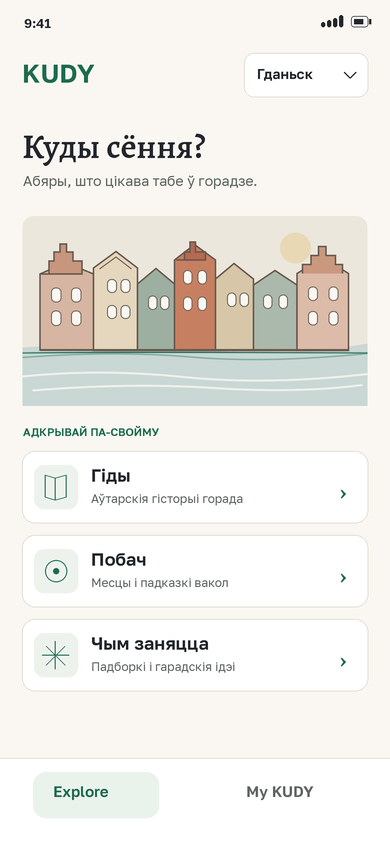
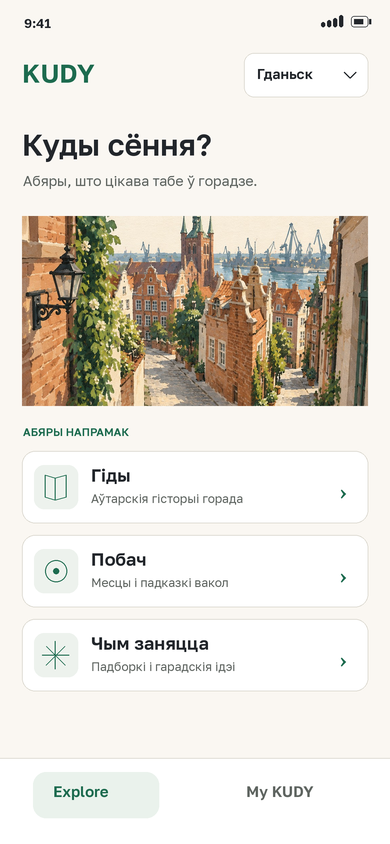
docs(design): center app entry on KUDY and city discovery

Changed region(s): [[0.0308, 0.2464, 0.9538, 0.5237], [0.0615, 0.154, 0.5538, 0.2156]]

diff --git a/docs/design/brand/outputs/app-entry-2026-10-19/render.py b/docs/design/brand/outputs/app-entry-2026-10-19/render.py
@@ -1,15 +1,13 @@
-"""Render a proposed native launch frame and pre-route Explore frame at 390 × 844."""
+"""Render branded in-app loading concepts and pre-route Explore at 390 × 844."""
 
-from io import BytesIO
 from pathlib import Path
 
-import cairosvg
-from PIL import Image, ImageDraw, ImageFont, ImageOps
+from PIL import Image, ImageDraw, ImageFont
 
 HERE = Path(__file__).resolve().parent
 BRAND = HERE.parents[1]
 FONTS = BRAND / "outputs" / "G25.01" / "fonts"
-FIGURINE = BRAND / "references" / "a1.png"
+CITY_ART = BRAND / "outputs" / "mobile-welcome-2026-10-19" / "art" / "07-found-object.jpg"
 SCALE = 3
 PAPER = "#FAF7F2"
 GREEN = "#1D6B4F"
@@ -30,23 +28,56 @@ def text(draw, xy, value, *, size, color=INK, face="GolosText_400Regular.ttf"):
     draw.text(box(xy), value, fill=color, font=font(face, size))
 
 
-def svg_image(path, width, height):
-    payload = cairosvg.svg2png(url=str(path), output_width=width * SCALE, output_height=height * SCALE)
-    return Image.open(BytesIO(payload)).convert("RGBA")
+def city_art(width, height):
+    art = Image.open(CITY_ART).convert("RGB").crop((0, 80, 1024, 644))
+    return art.resize((width * SCALE, height * SCALE), Image.Resampling.LANCZOS)
 
 
 def save(image, name):
     image.resize((390, 844), Image.Resampling.LANCZOS).save(HERE / name, optimize=True)
 
 
-def launch():
+def launch_atlas():
+    image = Image.new("RGB", (390 * SCALE, 844 * SCALE), PAPER)
+    draw = ImageDraw.Draw(image)
+    draw.line(box((37, 173, 37, 222)), fill=GREEN, width=8)
+    text(draw, (57, 164), "KUDY", size=61, color=GREEN, face="GolosText_600SemiBold.ttf")
+    draw.line(box((37, 255, 353, 255)), fill="#9CB4A6", width=3)
+
+    draw.rounded_rectangle(box((23, 321, 367, 622)), radius=17 * SCALE, fill="#E7E2D7")
+    draw.rounded_rectangle(box((31, 312, 359, 611)), radius=14 * SCALE, fill="#FFFCF7", outline="#C4BDB0", width=2)
+    art = city_art(302, 172)
+    image.paste(art, box((44, 331)))
+    draw = ImageDraw.Draw(image)
+    draw.line(box((44, 525, 195, 542, 346, 525)), fill="#8DA99C", width=4)
+    draw.line(box((195, 542, 195, 591)), fill="#C4BDB0", width=2)
+    draw.line(box((60, 555, 173, 564)), fill="#B7C9BE", width=3)
+    draw.line(box((217, 564, 330, 555)), fill="#B7C9BE", width=3)
+    draw.line(box((59, 580, 171, 587)), fill="#D3DDD5", width=3)
+    draw.line(box((219, 587, 331, 580)), fill="#D3DDD5", width=3)
+    save(image, "01-atlas-opening.png")
+    return image
+
+
+def launch_threshold():
     image = Image.new("RGB", (390 * SCALE, 844 * SCALE), GREEN)
-    source = Image.open(FIGURINE).convert("RGBA")
-    silhouette = Image.new("RGBA", source.size, PAPER)
-    silhouette.putalpha(source.getchannel("A"))
-    mark = ImageOps.contain(silhouette, (184 * SCALE, 184 * SCALE), Image.Resampling.LANCZOS)
-    image.paste(mark, ((image.width - mark.width) // 2, (image.height - mark.height) // 2), mark)
-    save(image, "01-loading.png")
+    draw = ImageDraw.Draw(image)
+    text(draw, (54, 143), "KUDY", size=61, color=PAPER, face="GolosText_600SemiBold.ttf")
+    draw.line(box((55, 225, 335, 225)), fill="#B8D0C1", width=3)
+    draw.ellipse(box((46, 305, 344, 603)), fill="#143F31")
+    draw.rectangle(box((46, 454, 344, 672)), fill="#143F31")
+    draw.ellipse(box((58, 317, 332, 591)), fill=PAPER)
+    draw.rectangle(box((58, 454, 332, 660)), fill=PAPER)
+    art = Image.open(CITY_ART).convert("RGB").crop((279, 0, 745, 564))
+    art = art.resize((274 * SCALE, 343 * SCALE), Image.Resampling.LANCZOS)
+    mask = Image.new("L", image.size, 0)
+    mask_draw = ImageDraw.Draw(mask)
+    mask_draw.ellipse(box((58, 317, 332, 591)), fill=255)
+    mask_draw.rectangle(box((58, 454, 332, 660)), fill=255)
+    image.paste(art, box((58, 317)), mask.crop(box((58, 317, 332, 660))))
+    draw = ImageDraw.Draw(image)
+    draw.line(box((58, 660, 332, 660)), fill="#B8D0C1", width=4)
+    save(image, "01-city-threshold.png")
     return image
 
 
@@ -82,13 +113,13 @@ def explore():
     draw.rounded_rectangle(box((244, 53, 368, 97)), radius=10 * SCALE, fill="#FFFFFF", outline=LINE, width=2)
     text(draw, (257, 65), "Гданьск", size=14, face="GolosText_600SemiBold.ttf")
     draw.line(box((344, 72, 350, 78, 356, 72)), fill=INK, width=3)
-    text(draw, (22, 123), "Куды сёння?", size=34, face="Alegreya_600SemiBold.ttf")
+    text(draw, (22, 126), "Куды сёння?", size=30, face="GolosText_600SemiBold.ttf")
     text(draw, (23, 172), "Абяры, што цікава табе ў горадзе.", size=14, color=MUTED)
 
-    art = svg_image(HERE / "city-vignette.svg", 346, 190)
-    image.paste(art, box((22, 216)), art)
+    art = city_art(346, 190)
+    image.paste(art, box((22, 216)))
     draw = ImageDraw.Draw(image)
-    text(draw, (23, 425), "АДКРЫВАЙ ПА-СВОЙМУ", size=11, color=GREEN, face="GolosText_600SemiBold.ttf")
+    text(draw, (23, 425), "АБЯРЫ НАПРАМАК", size=11, color=GREEN, face="GolosText_600SemiBold.ttf")
     card(draw, 451, "Гіды", "Аўтарскія гісторыі горада", "book")
     card(draw, 535, "Побач", "Месцы і падказкі вакол", "nearby")
     card(draw, 619, "Чым заняцца", "Падборкі і гарадскія ідэі", "spark")
@@ -103,15 +134,24 @@ def explore():
 
 
 def main():
-    first = launch().resize((390, 844), Image.Resampling.LANCZOS)
+    atlas = launch_atlas().resize((390, 844), Image.Resampling.LANCZOS)
+    threshold = launch_threshold().resize((390, 844), Image.Resampling.LANCZOS)
     second = explore().resize((390, 844), Image.Resampling.LANCZOS)
     sheet = Image.new("RGB", (844, 906), "#E8E5DF")
-    sheet.paste(first, (20, 20))
+    sheet.paste(threshold, (20, 20))
     sheet.paste(second, (434, 20))
     draw = ImageDraw.Draw(sheet)
-    draw.text((20, 869), "01  ·  Пакуль праграма запускаецца", fill=INK, font=ImageFont.truetype(str(FONTS / "GolosText_600SemiBold.ttf"), 14))
+    draw.text((20, 869), "01  ·  Горад адкрываецца", fill=INK, font=ImageFont.truetype(str(FONTS / "GolosText_600SemiBold.ttf"), 14))
     draw.text((434, 869), "02  ·  Пасля запуску, да выбару гіда", fill=INK, font=ImageFont.truetype(str(FONTS / "GolosText_600SemiBold.ttf"), 14))
     sheet.save(HERE / "entry-pair.png", optimize=True)
+    options = Image.new("RGB", (1258, 906), "#E8E5DF")
+    for x, frame in ((20, atlas), (434, threshold), (848, second)):
+        options.paste(frame, (x, 20))
+    labels = ((20, "A · Атлас адкрываецца"), (434, "Б · Парог горада"), (848, "Пасля запуску · Explore"))
+    draw = ImageDraw.Draw(options)
+    for x, label in labels:
+        draw.text((x, 869), label, fill=INK, font=ImageFont.truetype(str(FONTS / "GolosText_600SemiBold.ttf"), 14))
+    options.save(HERE / "entry-options.png", optimize=True)
 
 
 if __name__ == "__main__":

diff --git a/docs/design/brand/outputs/app-entry-2026-10-19/README.md b/docs/design/brand/outputs/app-entry-2026-10-19/README.md
@@ -1,14 +1,18 @@
 # Уваход у праграму: да выбару гіда ці маршруту
 
-[Пара двух экранаў](entry-pair.png) паказвае паслядоўнасць на тэлефоне 390 × 844: [01 — праграма запускаецца](01-loading.png) → [02 — Explore гатовы](02-explore.png). Гэта выпраўленне папярэдняга пакета, у якім першы экран ужо прапаноўваў канкрэтны гід. Тут чалавек яшчэ нічога не выбраў.
+[Пара двух экранаў](entry-pair.png) паказвае паслядоўнасць на тэлефоне 390 × 844: [01 — брэндавы экран запуску](01-city-threshold.png) → [02 — Explore гатовы](02-explore.png). [Два напрамкі заставы побач](entry-options.png): рэкамендаваны **Б «Парог горада»** і больш спакойны [А «Атлас адкрываецца»](01-atlas-opening.png). Тут чалавек яшчэ не выбраў ні гід, ні маршрут.
 
 ## 01 · Пакуль праграма запускаецца
 
-Адзін зялёны фон і крэмавы сілуэт **той самай фігуркі дракона** з [брэндавага рэферэнсу](../../references/a1.png). Няма ілюстрацыі маршруту, слогана, фальшывага адсотка загрузкі або кнопкі: сістэмная застаўка не дае дзеянняў. Сілуэт зроблены з празрыстай маскі арыгінальнага фота, таму гэта варыянт для ацэнкі, а не зацверджаная іконка B05. Ён не падмяняе кандыдаты і тэхнічныя абмежаванні з [G24.02](../G24.02/compare.html). На Android 12+ сістэмная застаўка мае адзін фон і цэнтральную выяву; слова KUDY паказваецца ўжо на наступным экране праграмы. На iOS патрэбна асобная прыладная праверка бяспечнай зоны.
+У варыянце Б назва **KUDY** і арка складаюць адзін жэст: чалавек глядзіць у горад, дзе можа сам выбраць, што адкрыць. У варыянце А гарадская выява выходзіць з папяровага атласа. Гэта брэндавыя вобразы гарадскога адкрыцця, якія могуць змяняць ілюстрацыю для іншых гарадоў. Выява горада ўзятая з ранейшай [генераванай ілюстрацыі](../mobile-welcome-2026-10-19/art/07-found-object.jpg) і абрэзаная так, каб у кадры не было гіда, маршруту і персанажа. Архітэктура ілюстрацыйная, не правераная як дакладны від Гданьска.
+
+Дракон у брэндзе — спадарожнік і апавядальнік, а не лагатып паводле [візуальнага канона](../../../visual-language.md). Таму ён не стаіць адзін у цэнтры заставы. Папярэдні сілуэт быў яшчэ і памылкова названы выразкай арыгінальнай фігуркі: [A1](../../references/a1.png) насамрэч згенераваны эскіз, што прама пазначана ў [брыфе](../../atlas-brief.md). Той варыянт выдалены.
+
+Поўная кампазіцыя — **экран праграмы падчас яе ўласнай загрузкі**, без кнопак, фальшывага адсотка і аўдыё. На Android 12+ перад ім можа каротка паказвацца асобная сістэмная застаўка з адным фонам і цэнтральнай выявай: абмежаванні і незавершаны выбар іконкі B05 зададзены ў [G24.02](../G24.02/compare.html). Гэты макет не прэтэндуе быць гатовым сістэмным splash-асетам.
 
 ## 02 · Праграма гатовая
 
-Галоўны экран да выбару гіда ці маршруту. Ён паказвае бягучы горад, кароткае запрашэнне і тры падпісаныя шляхі. Малюнак горада — [вектарны акцэнт](city-vignette.svg), а не карта ці сцвярджэнне гістарычнай дакладнасці будынкаў. На экране няма выбранай гісторыі, прагрэсу прагулкі або запыту геалакацыі.
+Галоўны экран да выбару гіда ці маршруту. Ён паказвае бягучы горад, кароткае запрашэнне і тры падпісаныя шляхі. Той жа гарадскі від пераходзіць са заставы ў Explore, каб запуск адчуваўся працягам аднаго дзеяння, а не скачком паміж двума брэндамі. На экране няма выбранай гісторыі, прагрэсу прагулкі або запыту геалакацыі.
 
 | Элемент | Дзеянне пасля націску |
 |---|---|
@@ -24,10 +28,10 @@
 
 ## Файлы і ўзнаўленне
 
-`render.py` складае два PNG і кантактны ліст з канонавых шрыфтоў, рэферэнсу фігуркі і лакальнага SVG. Патрэбны Pillow і CairoSVG:
+`render.py` складае абодва варыянты заставы, экран Explore і параўнальныя лісты з канонавых шрыфтоў і захаванай ілюстрацыі. Патрэбны Pillow:
 
 ```bash
 python3 docs/design/brand/outputs/app-entry-2026-10-19/render.py
 ```
 
-Гэта дызайнерскі макет, не падмена сістэмнага splash-асета або працуючага Explore ў праграме.
+Гэта дызайнерскі макет, не падмена сістэмнага splash-асета або працуючага Explore ў праграме. Пераход можа быць імгненным; пры патрэбе анімацыі дастаткова кароткага згасання, а пры паменшаным руху яго няма.

diff --git a/docs/design/brand/outputs/icon-directions-2026-10-17/README.md b/docs/design/brand/outputs/icon-directions-2026-10-17/README.md
@@ -4,7 +4,7 @@
 
 ## Што паглядзець
 
-- [Застаўка запуску і першы экран да выбару гіда](../app-entry-2026-10-19/README.md) — актуальная пара 390 × 844. [Параўнанне побач](../app-entry-2026-10-19/entry-pair.png) паказвае два розныя моманты ўваходу. [Восем ранейшых сцэн](../mobile-welcome-2026-10-19/README.md) належаць да ўжо выбранага гіда і не выкарыстоўваюцца як загрузачная застаўка.
+- [Застаўка запуску і першы экран да выбару гіда](../app-entry-2026-10-19/README.md) — актуальная пара 390 × 844. [Два брэндавыя напрамкі і Explore](../app-entry-2026-10-19/entry-options.png) паказваюць «Атлас адкрываецца», «Парог горада» і першы экран пасля загрузкі. [Восем ранейшых сцэн](../mobile-welcome-2026-10-19/README.md) належаць да ўжо выбранага гіда і не выкарыстоўваюцца як загрузачная застаўка.
 - [Ідэі размовы і агульная дошка стылю](../../2026-10-17-session-handoff.md) — аўтарскія маршруты, гданьскія гістарычныя апоры, узгадненне патрабаванняў, дракон і светлыя экраны. Дададзеныя для працягу працы ў гэтым PR; адкрытыя выбары і адрозненні меню пазначаныя ў дакуменце.
 - [Шэсць набораў](icons.html) — параўнальны ліст. У `sets/` ёсць асобныя SVG 24 × 24 для кожнай сем’і і дзеяння; [генератар](generate.mjs) аднаўляе іх дэтэрмінавана.
 - [Тры цёмныя галоўныя экраны](dark-home.html) — А «Начны атлас», Б «Ліхтар на карце», В «Цёмная гліна». Кнопка «Меню» адкрывае адпаведна выпадны блок, ніжнюю панэль або бакавую панэль. [Здымак экранаў](dark-home.png), [здымак адкрытага меню](dark-menu.png), [здымак набораў](icons.png).

diff --git a/docs/human-actions.md b/docs/human-actions.md
@@ -18,7 +18,7 @@ PR: спасылка (калі ёсць звязаны issue — дадаць і
 ## Што трэба зрабіць
 
 ### 2026-10-18 — выберы напрамак іконак і першага экрана KUDY
-Што зрабіць: спачатку прагледзь [застаўку запуску і экран да выбару гіда](design/brand/outputs/app-entry-2026-10-19/entry-pair.png) у PR #802. Вырашы, ці прымаецца такі момант уваходу, форма сілуэта дракона і размяшчэнне гарадскіх рубрык; затым параўнай наборы іконак і цёмныя прыклады. Восем ранейшых сцэн адносяцца да ўжо выбранага гіда і не з'яўляюцца заставкамі запуску.
+Што зрабіць: параўнай [два напрамкі загрузачнай заставы і экран Explore](design/brand/outputs/app-entry-2026-10-19/entry-options.png) у PR #802. Выберы, ці развіваць «Парог горада» або «Атлас адкрываецца», і ацані размяшчэнне гарадскіх рубрык; затым параўнай наборы іконак і цёмныя прыклады. Восем ранейшых сцэн адносяцца да ўжо выбранага гіда і не з'яўляюцца заставкамі запуску.
 PR: https://github.com/vokhandcrafts/KUDY/pull/802
 
 ### 2026-10-17 — узгадні налады KUDY і правер backlog G27
